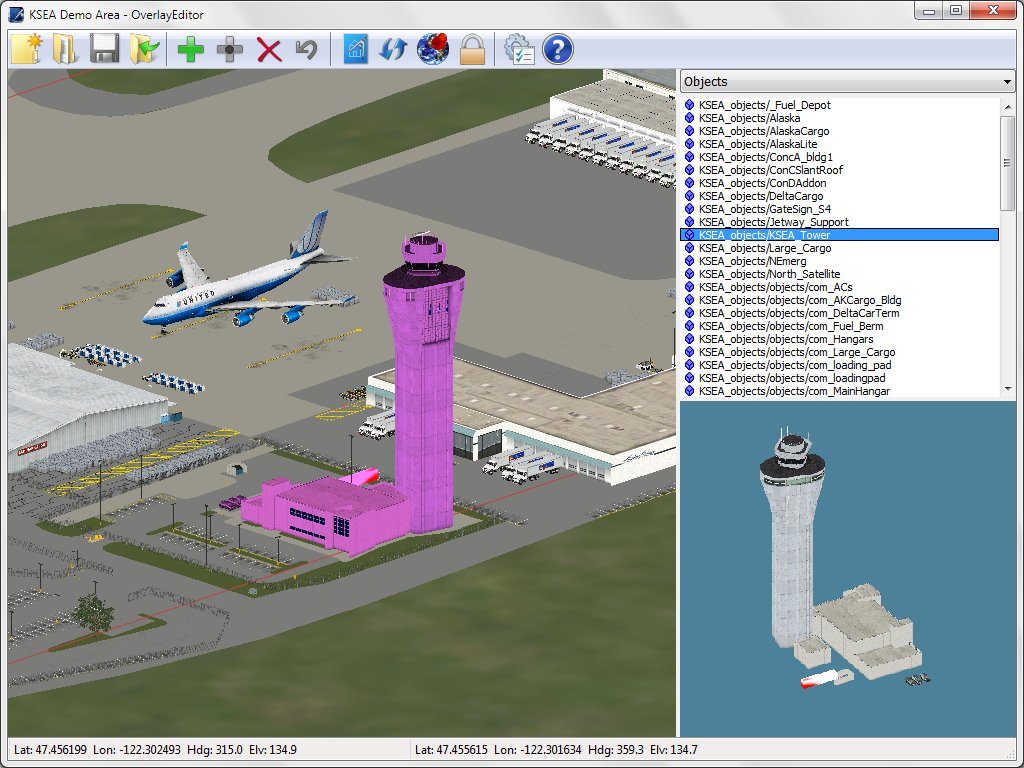
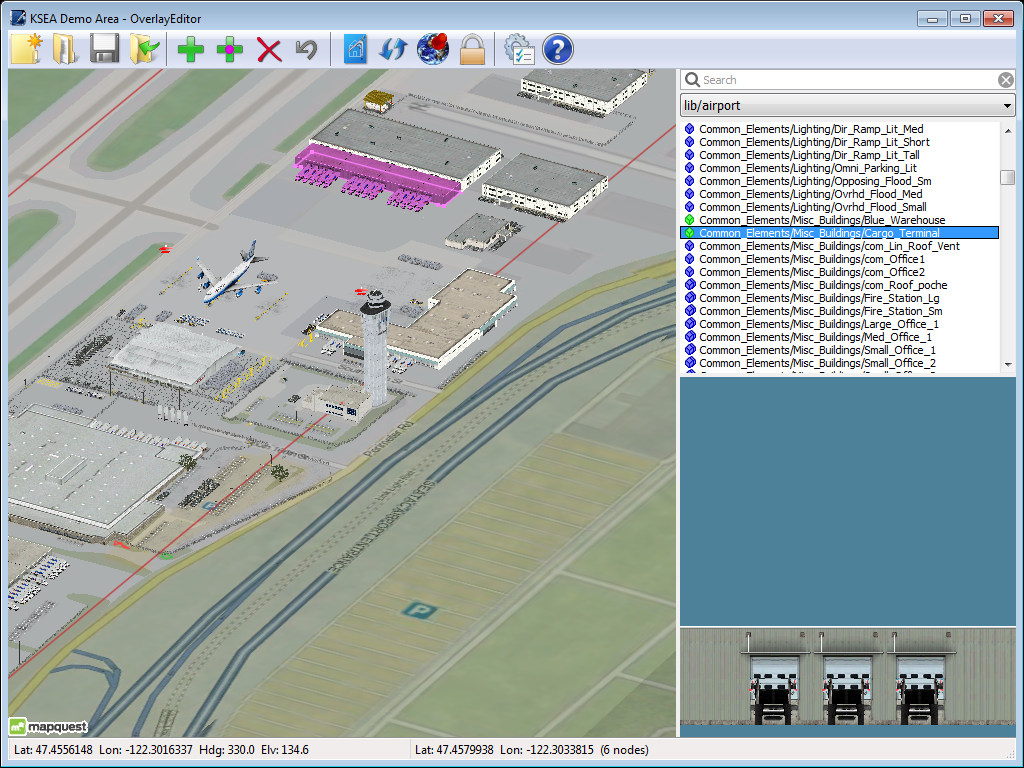
Add object seach box.

diff --git a/OverlayEditor.html b/OverlayEditor.html
@@ -45,13 +45,13 @@ Scenery</a> &rarr; <a href="http://marginal.org.uk/x-planescenery/tools.html">To
 
 <h3>The application window</h3>
 <p>The application window consists of five parts. Click on this screenshot for a description:</p>
-<img style="border: 0px solid; width: 1020px; height: 768px;" alt="application window" src="Resources/screenshot.jpg" usemap="#appwinmap">
+<img style="border: 0px solid; width: 1024px; height: 768px;" alt="application window" src="Resources/screenshot.jpg" usemap="#appwinmap">
 <map name="appwinmap">
-  <area shape="rect" coords="0,0,1023,68" href="#toolbar" title="Tool bar">
-  <area shape="rect" coords="0,69,679,737" href="#mainwindow" title="Main window">
-  <area shape="rect" coords="0,738,1023,767" href="#statusbar" title="Status bar">
-  <area shape="rect" coords="680,69,1023,407" href="#objectlist" title="List of objects">
-  <area shape="rect" coords="680,408,1023,767" href="#preview" title="Preview">
+  <area shape="rect" coords="0,0,1023,63" href="#toolbar" title="Tool bar">
+  <area shape="rect" coords="0,64,681,739" href="#mainwindow" title="Main window">
+  <area shape="rect" coords="0,740,1023,767" href="#statusbar" title="Status bar">
+  <area shape="rect" coords="682,64,1023,381" href="#objectlist" title="List of objects">
+  <area shape="rect" coords="682,382,1023,767" href="#preview" title="Preview">
 </map>
 
 <h4><a name="toolbar">Tool bar</a></h4>
@@ -102,7 +102,7 @@ If you have a polygon/network <u>node</u> selected - Add new polygon/network nod
       <td>Undo the last edit.</td>
     </tr>
     <tr>
-      <td class="button"><img class="tlbbutton" alt="Background" src="Resources/background.png"></td>
+      <td class="button"><a name="background"><img class="tlbbutton" alt="Background" src="Resources/background.png"></a></td>
       <td>Turn background imagery on or off.<br>
 You can use a mapping service or a simple file to provide background imagery. <small>(Note that the background imagery is just for reference; it's not saved with the scenery package).</small></td>
     </tr>
@@ -137,7 +137,7 @@ Do not change the location of X-Plane's top-level folder while you are editing a
 
 <h4><a name="mainwindow">Main window</a></h4>
 <p>This shows the objects that have been placed in a 1&deg;&times;1&deg; region of the loaded scenery package.</p>
-<p>By default terrain is textured and displayed as flat - you can change this with <a href="#preferences"><img class="inlbutton" alt="Preferences" src="Resources/prefs.png"></a>. Runways, taxiways and navaids are displayed in simplified form and cannot be edited. Scenery objects from other scenery packages and &ldquo;autogen&rdquo; scenery objects from the default scenery are not displayed at all.<p>
+<p>By default terrain is textured and displayed as flat - you can change this with <a href="#preferences"><img class="inlbutton" alt="Preferences" src="Resources/prefs.png"></a> and/or add mapping imagery with <a href="#background"><img class="inlbutton" alt="Background" src="Resources/background.png"></a>. Runways, taxiways and navaids are displayed in simplified form and cannot be edited. Scenery objects from other scenery packages and &ldquo;autogen&rdquo; scenery objects from the default scenery are not displayed at all.<p>
 <p>Navigate with the cursor keys or mouse. Hold down <kbd>Shift</kbd> for bigger steps or <kbd>Ctrl</kbd> for tiny steps:</p>
 <div style="margin-left: 40px;">
 <table class="kbdtable">
@@ -290,13 +290,7 @@ that is highlighted in the <a href="#objectlist">list of objects</a>.</td>
   <dd><img class="inlsymbol" alt="exc" src="Resources/exc.png"> - Exclusion region</dd>
   <dd><img class="inlsymbol" alt="bad" src="Resources/bad.png"> - Missing or unreadable object or polygon</dd>
 </dl>
-<p>Objects that have been made available by scenery libraries, including
-X-Plane's built-in libraries, are listed under further headings in the
-drop-down list. Note that later versions of X-Plane come with more extensive
-libraries than earlier versions, so you you should always design using the
-earliest version of X-Plane that you want your scenery package to work
-with.
-(See <a target="_blank" href="http://marginal.org.uk/x-planescenery/library_tutorial/index.html">this tutorial</a> if you're interested in making your own scenery libraries).</p>
+<p>Objects that have been made available by scenery libraries, including X-Plane's built-in libraries, are listed under further headings in the drop-down list. Or use the <samp>Search</samp> box to search through the available objects by name. Note that later versions of X-Plane come with more extensive libraries than earlier versions, so you you should always design using the earliest version of X-Plane that you want your scenery package to work with. (See <a target="_blank" href="http://marginal.org.uk/x-planescenery/library_tutorial/index.html">this tutorial</a> if you're interested in making your own scenery libraries).</p>
 <p>Some library objects are shown in these lists with a symbol <img class="inlsymbol" alt="objs" src="Resources/objs.png"> or <img class="inlsymbol" alt="facs" src="Resources/facs.png"> instead of the normal symbol <img class="inlsymbol" alt="obj" src="Resources/obj.png"> or <img class="inlsymbol" alt="fac" src="Resources/fac.png">.
 This means that the library object exists in multiple versions; X-Plane will
 choose which version of the object to display at random, but this application

diff --git a/palette.py b/palette.py
@@ -39,73 +39,82 @@ class PaletteListBox(wx.VListBox):
         self.inafg=wx.SystemSettings_GetColour(wx.SYS_COLOUR_MENUTEXT)
         self.inabg=wx.SystemSettings_GetColour(wx.SYS_COLOUR_MENU)
         self.indent=4
+        self.parent=parent
+        self.tabname=tabname
+        self.tabno=tabno
         self.pkgdir=pkgdir
-        self.populate(parent, tabname, tabno, objects)
+        self.populate(objects)
 
-    def populate(self, parent, tabname, tabno, objects):
+    def populate(self, objects):
+        self.SetSelection(-1)
         self.choices=[]
-        names=objects.keys()
-        for name,entry in objects.iteritems():
-            try:
-                realname=name.encode()	# X-Plane only supports ASCII
-                ext=name[-4:].lower()
-                if tabname==NetworkDef.TABNAME:
-                    imgno=7
-                elif tabname==ExcludeDef.TABNAME:
-                    imgno=8
-                elif ext in UnknownDefs:
-                    imgno=6
-                elif realname in parent.bad:
-                    imgno=16
-                elif ext==PolygonDef.DRAPED:
-                    imgno=4
-                    if tabno==0 and self.pkgdir:
-                        # find orthos - assume library objects aren't
-                        try:
-                            h=file(join(self.pkgdir,entry.file), 'rU')
-                            for line in h:
-                                line=line.strip()
-                                if line.startswith('TEXTURE_NOWRAP') or line.startswith('TEXTURE_LIT_NOWRAP'):
-                                    imgno=5
-                                    break
-                                elif line.startswith('TEXTURE'):
-                                    break
-                            h.close()
-                        except:
-                            pass
-                elif ext in KnownDefs:
-                    imgno=KnownDefs.index(ext)
+        if self.tabname==NetworkDef.TABNAME:
+            for name,entry in objects.iteritems(): self.choices.append((7, name, name))
+            self.SetItemCount(len(self.choices))
+            return
+        elif self.tabname==ExcludeDef.TABNAME:
+            for name,entry in objects.iteritems(): self.choices.append((8, name, name))
+            self.SetItemCount(len(self.choices))
+        else:
+            names=objects.keys()
+            for name,entry in objects.iteritems():
+                try:
+                    realname=name.encode()	# X-Plane only supports ASCII
+                    ext=name[-4:].lower()
+                    if ext in UnknownDefs:
+                        imgno=6
+                    elif realname in self.parent.bad:
+                        imgno=16
+                    elif ext==PolygonDef.DRAPED:
+                        imgno=4
+                        if self.tabno==0 and self.pkgdir:
+                            # find orthos - assume library objects aren't
+                            try:
+                                h=file(join(self.pkgdir,entry.file), 'rU')
+                                for line in h:
+                                    line=line.strip()
+                                    if line.startswith('TEXTURE_NOWRAP') or line.startswith('TEXTURE_LIT_NOWRAP'):
+                                        imgno=5
+                                        break
+                                    elif line.startswith('TEXTURE'):
+                                        break
+                                h.close()
+                            except:
+                                pass
+                    elif ext in KnownDefs:
+                        imgno=KnownDefs.index(ext)
+                    else:
+                        imgno=16	# wtf?
+                except:
+                    realname=name
+                    self.parent.bad[name]=True
+                    imgno=16	# non-ASCII
+                if not self.pkgdir:
+                    # library object
+                    if name.startswith('/'): name=name[1:]
+                    if name.startswith(self.tabname+'/'):
+                        name=name[len(self.tabname)+1:]
+                    name=name[:-4]
+                elif name.lower().startswith('objects/') and name[8:] not in names:
+                    name=name[8:-4]
+                elif name.lower().startswith('custom objects/') and name[15:] not in names:
+                    name=name[15:-4]
                 else:
-                    imgno=16	# wtf?
-            except:
-                realname=name
-                parent.bad[name]=True
-                imgno=16	# non-ASCII
-            if tabname in [NetworkDef.TABNAME, ExcludeDef.TABNAME]:
-                pass
-            elif not self.pkgdir:
-                # library object
-                if name.startswith('/'): name=name[1:]
-                if name.startswith(tabname+'/'):
-                    name=name[len(tabname)+1:]
-                name=name[:-4]
-            elif name.lower().startswith('objects/') and name[8:] not in names:
-                name=name[8:-4]
-            elif name.lower().startswith('custom objects/') and name[15:] not in names:
-                name=name[15:-4]
-            else:
-                name=name[:-4]
-            if entry.multiple and imgno!=16: imgno+=9
-            self.choices.append((imgno, name, realname))
-        self.SetItemCount(len(self.choices))
+                    name=name[:-4]
+                if entry.multiple and imgno!=16: imgno+=9
+                self.choices.append((imgno, name, realname))
+            self.SetItemCount(len(self.choices))
 
         # sort according to display name and set up quick lookup
         self.choices.sort(lambda x,y: cmp(x[1].lower(), y[1].lower()))
         for i in range(len(self.choices)):
             (imgno, name, realname)=self.choices[i]
-            if tabno==0 or realname not in parent.lookup:
+            if self.tabno==0 or realname not in self.parent.lookup:
                 # per-package objects take precedence
-                parent.lookup[realname]=(tabno,i)
+                self.parent.lookup[realname]=(self.tabno,i)
+
+        # Mark for repaint if we're on show
+        self.Refresh()
 
     def OnMeasureItem(self, n):
         return self.height
@@ -169,11 +178,16 @@ class PaletteChoicebook(wx.Choicebook):
         #print "choice"
         l=event.GetEventObject()
         (imgno, name, realname)=l.choices[l.GetSelection()]
-        self.frame.palette.set(realname)
+        for ll in self.lists:
+            if ll!=l: ll.SetSelection(-1)
         self.frame.canvas.clearsel()
         self.frame.statusbar.SetStatusText("", 2)
+        self._postselection(True)
         self.frame.toolbar.EnableTool(wx.ID_DELETE, False)
         if self.frame.menubar: self.frame.menubar.Enable(wx.ID_DELETE, False)
+        if realname!=self.frame.palette.lastkey:
+            self.frame.palette.lastkey=realname
+            self.frame.palette.preview.Refresh()
         event.Skip()
 
     def OnKillFocus(self, event):
@@ -205,8 +219,7 @@ class PaletteChoicebook(wx.Choicebook):
         lookup=self.frame.canvas.lookup
         objects=dict([(realname, lookup[realname]) for (imgno, foo, realname) in l.choices])
         objects[name]=lookup[name]
-        l.populate(self, 'Objects', 0, objects)
-        self.Refresh()
+        l.populate(objects)
 
         # Select added name
         self.set(name)
@@ -236,19 +249,19 @@ class PaletteChoicebook(wx.Choicebook):
             if self.GetSelection()!=ontab: self.SetSelection(ontab)
             l=self.lists[ontab]
             l.SetSelection(ind)
-            self.frame.toolbar.EnableTool(wx.ID_ADD,  True)
-            self.frame.toolbar.EnableTool(wx.ID_EDIT, False)
-            if self.frame.menubar:
-                self.frame.menubar.Enable(wx.ID_ADD,  True)
-                self.frame.menubar.Enable(wx.ID_EDIT, False)
+            self._postselection(True)
         else:
             # no key, or listed in DSF but not present - eg unrecognised poly
             self.lists[self.GetSelection()].SetSelection(-1)
-            self.frame.toolbar.EnableTool(wx.ID_ADD,  False)
-            self.frame.toolbar.EnableTool(wx.ID_EDIT, False)
-            if self.frame.menubar:
-                self.frame.menubar.Enable(wx.ID_ADD, False)
-                self.frame.menubar.Enable(wx.ID_EDIT, False)
+            self._postselection(False)
+
+    def _postselection(self, found):
+        # Do stuff after a selection
+        self.frame.toolbar.EnableTool(wx.ID_ADD,  found)
+        self.frame.toolbar.EnableTool(wx.ID_EDIT, False)
+        if self.frame.menubar:
+            self.frame.menubar.Enable(wx.ID_ADD,  found)
+            self.frame.menubar.Enable(wx.ID_EDIT, False)
 
     def markbad(self, name=None):
         # Mark name as bad, or current selection if no name. Adds name if not already present.
@@ -272,8 +285,7 @@ class PaletteChoicebook(wx.Choicebook):
             lookup=self.frame.canvas.lookup
             objects=dict([(realname, lookup[realname]) for (imgno, foo, realname) in l.choices])
             objects[name]=lookup[name]
-            l.populate(self, 'Objects', 0, objects)
-            self.Refresh()
+            l.populate(objects)
         else:
             (ontab,ind)=self.lookup[name]
             (imgno, name, realname)=self.lists[ontab].choices[ind]
@@ -292,15 +304,28 @@ class Palette(wx.SplitterWindow):
         wx.SplitterWindow.__init__(self, parent, wx.ID_ANY,
                                    style=wx.SP_3DSASH|wx.SP_NOBORDER|wx.SP_LIVE_UPDATE)
         self.SetWindowStyle(self.GetWindowStyle() & ~wx.TAB_TRAVERSAL)	# wx.TAB_TRAVERSAL is set behind our backs - this fucks up cursor keys
-        self.cb=PaletteChoicebook(self, frame)
+        panel=wx.Panel(self)
+        sizer=wx.BoxSizer(wx.VERTICAL)
+        self.sb=wx.SearchCtrl(panel)
+        self.sb.ShowCancelButton(True)
+        sizer.Add(self.sb, 0, flag=wx.EXPAND|(platform=='darwin' and wx.ALL or wx.BOTTOM), border=3)
+        if platform=='darwin' and wx.VERSION<(2,9): sizer.AddSpacer(6)	# layout on OSX sucks
+        self.cb=PaletteChoicebook(panel, frame)
+        sizer.Add(self.cb, 1, wx.EXPAND)
+        panel.SetSizerAndFit(sizer)
         self.preview=wx.Panel(self, wx.ID_ANY, style=wx.FULL_REPAINT_ON_RESIZE)
         self.SetMinimumPaneSize(1)
-        self.SplitHorizontally(self.cb, self.preview, -ClutterDef.PREVIEWSIZE)
+        self.SplitHorizontally(panel, self.preview, -ClutterDef.PREVIEWSIZE)
         self.lastheight=self.GetSize().y
         wx.EVT_SIZE(self, self.OnSize)
         wx.EVT_KEY_DOWN(self.preview, self.OnKeyDown)
         wx.EVT_SPLITTER_SASH_POS_CHANGING(self, self.GetId(), self.OnSashPositionChanging)
         wx.EVT_PAINT(self.preview, self.OnPaint)
+        wx.EVT_TEXT(self.sb, self.sb.GetId(), self.OnSearch)
+        if wx.version()<'2.9.4.1':
+            # cancel button doesn't send EVT_SEARCHCTRL_CANCEL_BTN under 2.9.4.0 - http://trac.wxwidgets.org/ticket/14799
+            # event not needed under 2.9.4.1
+            wx.EVT_SEARCHCTRL_CANCEL_BTN(self.sb, self.sb.GetId(), self.OnCancelSearch)
 
     def glInit(self):
         self.sashsize=self.GetClientSize()[1]-(self.cb.GetClientSize()[1]+self.preview.GetClientSize()[1])
@@ -329,12 +354,29 @@ class Palette(wx.SplitterWindow):
         self.frame.OnKeyDown(event)
         event.Skip(False)
 
+    def OnSearch(self, event):
+        if not self.cb.lists: return	# wxMac 2.9 sends spurious event on start
+        search=self.sb.GetValue().lower()
+        if search:
+            objects=dict((name,entry) for (name,entry) in self.frame.canvas.lookup.iteritems() if search in name.lower())
+        else:
+            objects={}
+        self.cb.lists[-1].populate(objects)
+        self.cb.SetSelection(search and len(self.cb.lists)-1 or 0)	# Switch to "Search Results"
+
+    def OnCancelSearch(self, event):
+        # Not called under 2.9.4.1 and later
+        self.sb.ChangeValue('')		# Don't want to generate an EVT_TEXT
+        self.cb.SetSelection(0)		# Switch to "Objects in this package"
+        self.cb.lists[-1].populate({})
+
     def flush(self):
         self.cb.flush()
+        self.sb.Clear()		# may change choicebook tab!
         self.lastkey=None
         self.preview.Refresh()
             
-    def load(self, tabname, objects, pkgdir):
+    def load(self, tabname, objects, pkgdir=None):
         self.cb.load(tabname, objects, pkgdir)
     
     def add(self, name):

diff --git a/OverlayEditor.py b/OverlayEditor.py
@@ -1449,7 +1449,7 @@ class MainWindow(wx.Frame):
                         roadfile=join(path,f)
         self.palette.load('Objects in this package', objects, pkgdir)
         lookup.update(objects)
-        for lib in libs: self.palette.load(lib, lookupbylib[lib], None)
+        for lib in libs: self.palette.load(lib, lookupbylib[lib])
 
         if False: # xpver>=9: XXX disable networks
             defroadfile=lookupbylib['g8'].pop(NetworkDef.DEFAULTFILE,None)
@@ -1477,11 +1477,12 @@ class MainWindow(wx.Frame):
                 names={}
                 for x in netdefs:                
                     if x and x.name: names[x.name]=lookup[x.name]=PaletteEntry(x.name)
-                self.palette.load(NetworkDef.TABNAME, names, None)
+                self.palette.load(NetworkDef.TABNAME, names)
         else:
             netdefs=self.defnetdefs=[]
             
-        self.palette.load(ExcludeDef.TABNAME, dict([(Exclude.NAMES[x], PaletteEntry(x)) for x in Exclude.NAMES.keys()]), None)
+        self.palette.load(ExcludeDef.TABNAME, dict([(Exclude.NAMES[x], PaletteEntry(x)) for x in Exclude.NAMES.keys()]))
+        self.palette.load('Search results', {})
 
         if xpver>=9:
             dsfdirs=[join(prefs.xplane, gcustom),
